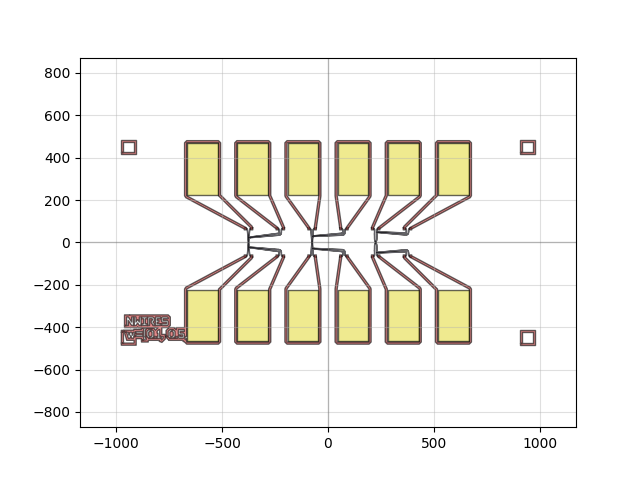
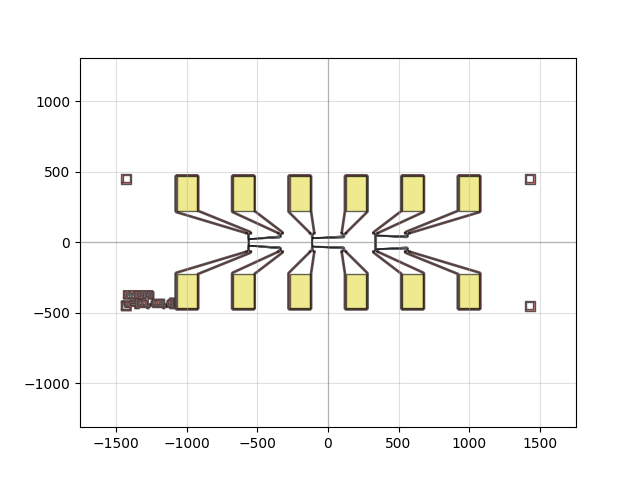
fixed nw-4pt geometries and updated place_on_chip for copy support

diff --git a/src/qnngds/design.py b/src/qnngds/design.py
@@ -7,6 +7,7 @@ design.
 """
 
 from phidl import Device
+from phidl.device_layout import DeviceReference
 import phidl.geometry as pg
 from typing import Tuple, List, Union, Optional
 import os
@@ -118,7 +119,8 @@ def create_chip(
 
 
 def place_on_chip(
-    cell: Device,
+    ref: DeviceReference,
+    name: str,
     coordinates: Tuple[int, int],
     chip_map: List[List[bool]],
     die_w: Union[int, float],
@@ -148,11 +150,12 @@ def place_on_chip(
     """
 
     # update the chip's availabilities
-    n_cell = round(cell.xsize / die_w)
-    m_cell = round(cell.ysize / die_w)
+    n_cell = round(ref.xsize / die_w)
+    m_cell = round(ref.ysize / die_w)
+    print(name)
     for n in range(n_cell):
         for m in range(m_cell):
-            cell_name = cell.name.replace("\n", "")
+            cell_name = name
             try:
                 if chip_map[coordinates[1] + m][coordinates[0] + n] == Occupied:
                     print(
@@ -173,7 +176,7 @@ def place_on_chip(
         -n_cell * 0.5 * die_w,
         -m_cell * 0.5 * die_w,
     )
-    cell.move(cell_bottom_left, ((coordinates[0]) * die_w, (coordinates[1]) * die_w))
+    ref.move(cell_bottom_left, ((coordinates[0]) * die_w, (coordinates[1]) * die_w))
 
     # write the cell's place on the devices map text file
     if devices_map_txt is not None:
@@ -420,7 +423,10 @@ class Design:
         return self.CHIP
 
     def place_on_chip(
-        self, cell: Device, coordinates: Tuple[int, int], add_to_chip: bool = True
+        self, cell: Device, 
+        coordinates: Tuple[int, int] = (0, 0),
+        add_to_chip: bool = True,
+        copy_coordinates: List[Tuple[int, int]] = None, 
     ) -> bool:
         """Moves the chip to the coordinates specified. Update the chip map
         with Occupied states where the device has been placed.
@@ -429,8 +435,11 @@ class Design:
 
         Parameters:
             cell (Device): Device to be moved.
-            coordinates (tuple of int): (i, j) indices of the chip grid, where to place the cell.
-                Note that the indices start at 0.
+            coordinates (tuple of int) or List of: (i, j) indices of the chip grid, where to place the cell.
+                Note that the indices start at 0. Use to make one copy.
+            copy_coordinates: List of coordinates. Provide multiple coordinates to place multiple
+                copies of the same device.
+            add_to_chip (bool):
 
         Returns:
             bool: False, if the Device falls out of the chip map, prints an error message and does not place the device. True, otherwise.
@@ -446,16 +455,30 @@ class Design:
             >>> demo_project.place_on_chip(cell=align_left,  coordinates=(0, 5))
             >>> demo_project.place_on_chip(cell=align_right, coordinates=(10, 5))
         """
-
-        if add_to_chip:
-            self.CHIP << cell
-        return place_on_chip(
-            cell=cell,
-            coordinates=coordinates,
-            chip_map=self.chip_map,
-            die_w=self.die_w,
-            devices_map_txt=self.devices_map_txt,
-        )
+        success = []
+        if copy_coordinates is None:
+            ref = self.CHIP << cell 
+            return place_on_chip(
+                ref = ref,
+                name = cell.name.replace("\n", ""),
+                coordinates=coordinates,
+                chip_map=self.chip_map,
+                die_w=self.die_w,
+                devices_map_txt=self.devices_map_txt,
+            )
+        else:
+            for i in range(len(copy_coordinates)):
+                if add_to_chip:
+                    ref = self.CHIP << cell
+                success.append(place_on_chip(
+                    ref = ref,
+                    name = cell.name.replace("\n", ""),
+                    coordinates=(copy_coordinates[i][0], copy_coordinates[i][1]),
+                    chip_map=self.chip_map,
+                    die_w=self.die_w,
+                    devices_map_txt=self.devices_map_txt,
+                ))
+            return success
 
     def place_remaining_devices(
         self,

diff --git a/src/qnngds/cells.py b/src/qnngds/cells.py
@@ -464,21 +464,21 @@ def nanowires_4pt(
     # die parameters, checkup conditions
     num_nw = len(channels_sources_w)
     n = math.ceil(
-        (2 * (num_nw + 1) * die_parameters.pad_size[0])
+        (2 * (num_nw + 2) * (die_parameters.pad_size[0]+2*die_parameters.outline))
         / die_parameters.unit_die_size[0]
     )
     die_contact_w = NANOWIRES.xsize + die_parameters.contact_l
     dev_contact_w = NANOWIRES.xsize
     routes_margin = 4 * die_contact_w
     dev_max_size = (
-        2 * num_nw * (die_parameters.pad_size[0]),
+        2 * num_nw * (die_parameters.pad_size[0])*1.5,
         NANOWIRES.ysize + routes_margin,
     )
 
     # die, with calculated parameters
     BORDER = utility.die_cell(
         die_parameters=die_parameters,
-        n_m_units=(n, 1),
+        n_m_units=(n+1, 1),
         contact_w=die_contact_w,
         device_max_size=dev_max_size,
         ports={"N": num_nw * 2, "S": num_nw * 2},
@@ -489,17 +489,20 @@ def nanowires_4pt(
     ## Place the nanowires
 
     for i, nanowire_ref in enumerate(nanowires_ref):
-        x_offset = BORDER.ports[f"N{i+1}"].x + die_parameters.pad_size[0] * i
+        nanowire_w = channels_sources_w[i][0]
+        x_offset = BORDER.ports[f"N{i+1}"].x + die_parameters.pad_size[0] * i*1.5
         nanowire_ref.movex(x_offset)
         NANOWIRES.add_port(port=nanowire_ref.ports[1], name=f"N{2*i+1}")
         NANOWIRES.add_port(port=nanowire_ref.ports[2], name=f"S{2*i+1}")
         NANOWIRES.add_port(
-            midpoint=(nanowire_ref.xmin + outline_dev, nanowire_ref.ymax),
+            midpoint=(nanowire_ref.xmin + nanowire_w/2, nanowire_ref.ymax),
+            width=nanowire_w/2,
             orientation=90,
             name=f"N{2*i+2}",
         )
         NANOWIRES.add_port(
-            midpoint=(nanowire_ref.xmin + outline_dev, nanowire_ref.ymin),
+            midpoint=(nanowire_ref.xmin + nanowire_w/2, nanowire_ref.ymin),
+            width=nanowire_w/2,
             orientation=-90,
             name=f"S{2*i+2}",
         )
@@ -671,8 +674,8 @@ def snspds(
     """
     if text is None:
         snspds_width = [item[0] for item in snspds_width_pitch]
-        text = f"w={snspds_width}"
-    cell_text = text.replace(" \n", ", ")
+        text = "w="+'\n'.join([f"{wi:.1f}" for wi in snspds_width])
+    cell_text = text#.replace(" \n", ", ")
 
     SNSPD_CELL = Device(f"CELL.SNSPD({cell_text})")
     DEVICE = Device(f"SNSPD({cell_text})")
